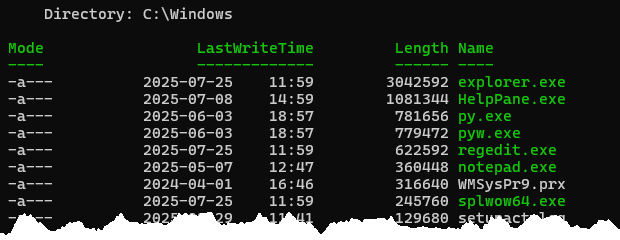
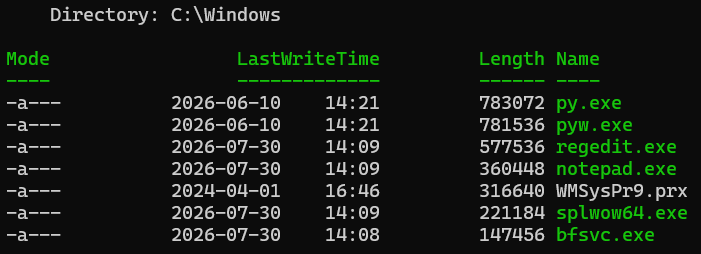
fix question 4.1.4

diff --git a/web/docs/exercices/04-tableaux.md b/web/docs/exercices/04-tableaux.md
@@ -26,7 +26,7 @@ Vous pouvez télécharger ces exercices sous forme de fichier PowerShell. Ouvrez
 
 ![Image 4.1.3](assets/04-q1c.png)
 
-#### 4.1.4. Même chose, mais montrer seulement les fichiers qui pèsent entre 1 et 10 mégaoctets.
+#### 4.1.4. Même chose, mais montrer seulement les fichiers qui pèsent entre 1 mégaoctet et 100 kilooctets.
 
 ![Image 4.1.4](assets/04-q1d.png)
 
